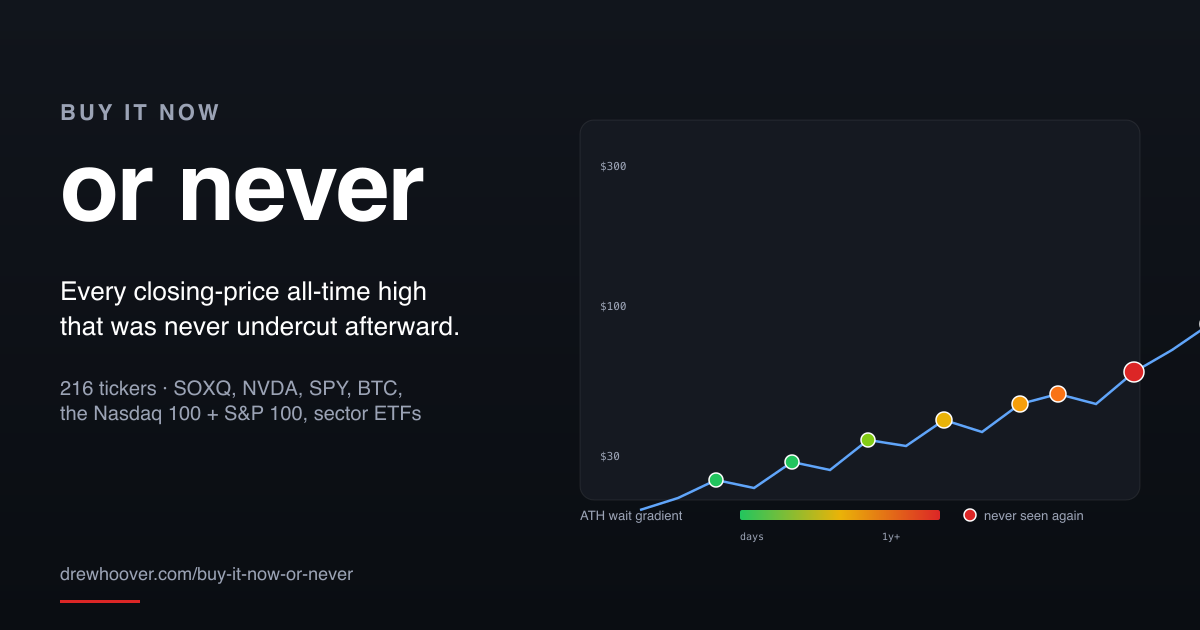
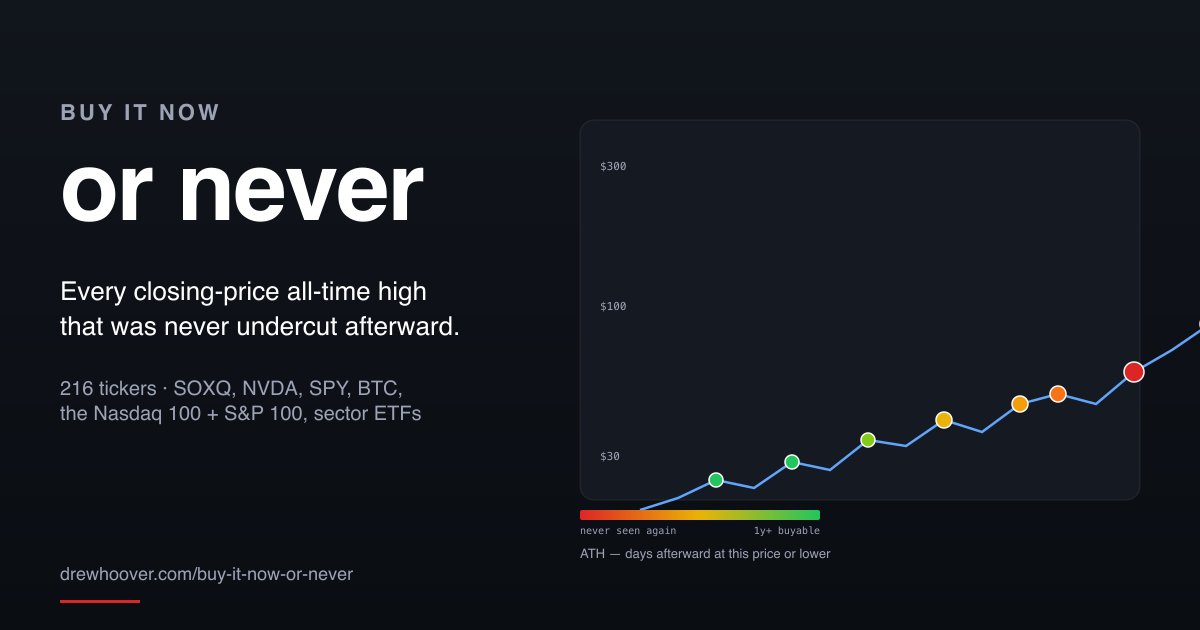
Drop dot borders, opacity 0.7; refresh OG image to new color scale
Chart: remove the white stroke on every ATH dot and drop fill opacity
to 0.7. Overlap is now honest — you can see the price line under a
cluster, and overlapping dots compound via alpha so density encodes
itself (a stack of recovered ATHs reads as a darker patch than a lone
one). Permanent dots keep r=4.5 vs recovered r=3 so red still pops
in clusters.

OG image: swap the gradient direction (was green → yellow → red,
now red → yellow → green to match the new buyable-days scale).
Update the legend labels to 'never seen again' / '1y+ buyable' and
the caption to 'ATH — days afterward at this price or lower'. The
stylized chart dots already happened to match the new scheme by
coincidence (green early, red recent) — only the legend needed
inverting.

Changed region(s): [[0.4625, 0.7841, 0.8942, 0.9048]]

diff --git a/src/Chart.jsx b/src/Chart.jsx
@@ -383,21 +383,22 @@ export default function Chart({ data, rangeYears, zoom, onZoomChange }) {
           strokeWidth={1.5}
         />
 
-        {/* Recovered ATHs — green → yellow → orange by wait length */}
+        {/* All ATHs share the buyable-days gradient. Borders dropped so
+            overlapping dots compound via alpha — clusters darken, which
+            encodes density on top of the per-dot color. Permanents keep
+            a slightly larger radius so red dots still read in clusters. */}
         {athPoints.map(p => (
           <circle
             key={`ath-${p.i}`}
             cx={p.x} cy={p.y} r={3}
-            fill={p.color} stroke="white" strokeWidth={0.75}
+            fill={p.color} opacity={0.7}
           />
         ))}
-
-        {/* Permanent ATHs — solid red, drawn on top with a thicker ring */}
         {permPoints.map(p => (
           <circle
             key={`pf-${p.i}`}
             cx={p.x} cy={p.y} r={4.5}
-            fill={p.color} stroke="white" strokeWidth={1.5}
+            fill={p.color} opacity={0.7}
           />
         ))}
 
